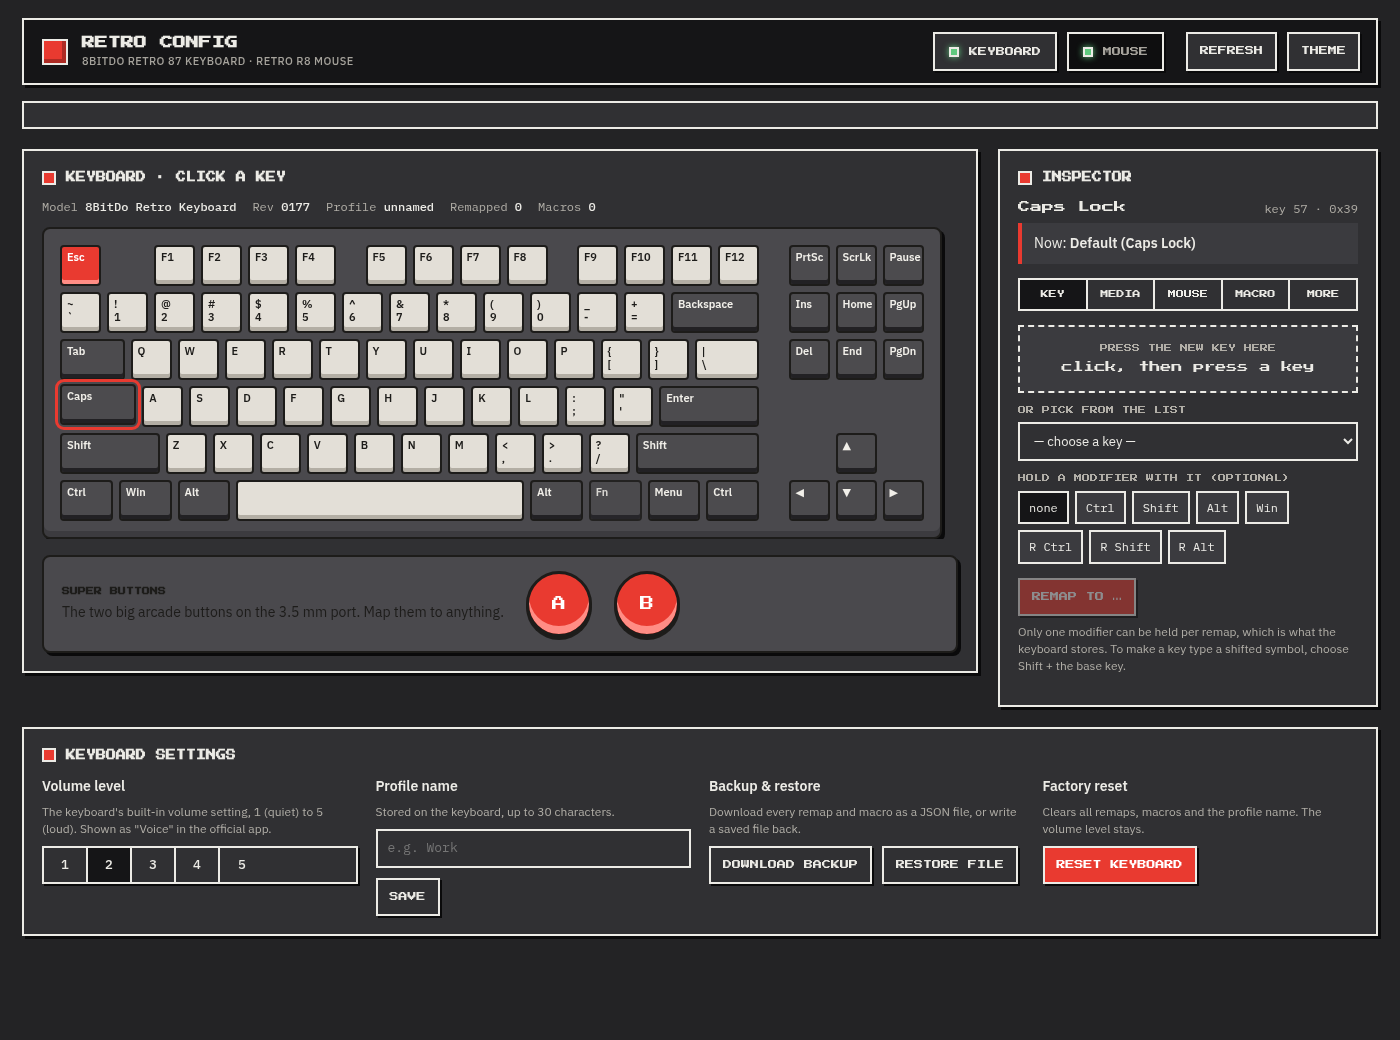
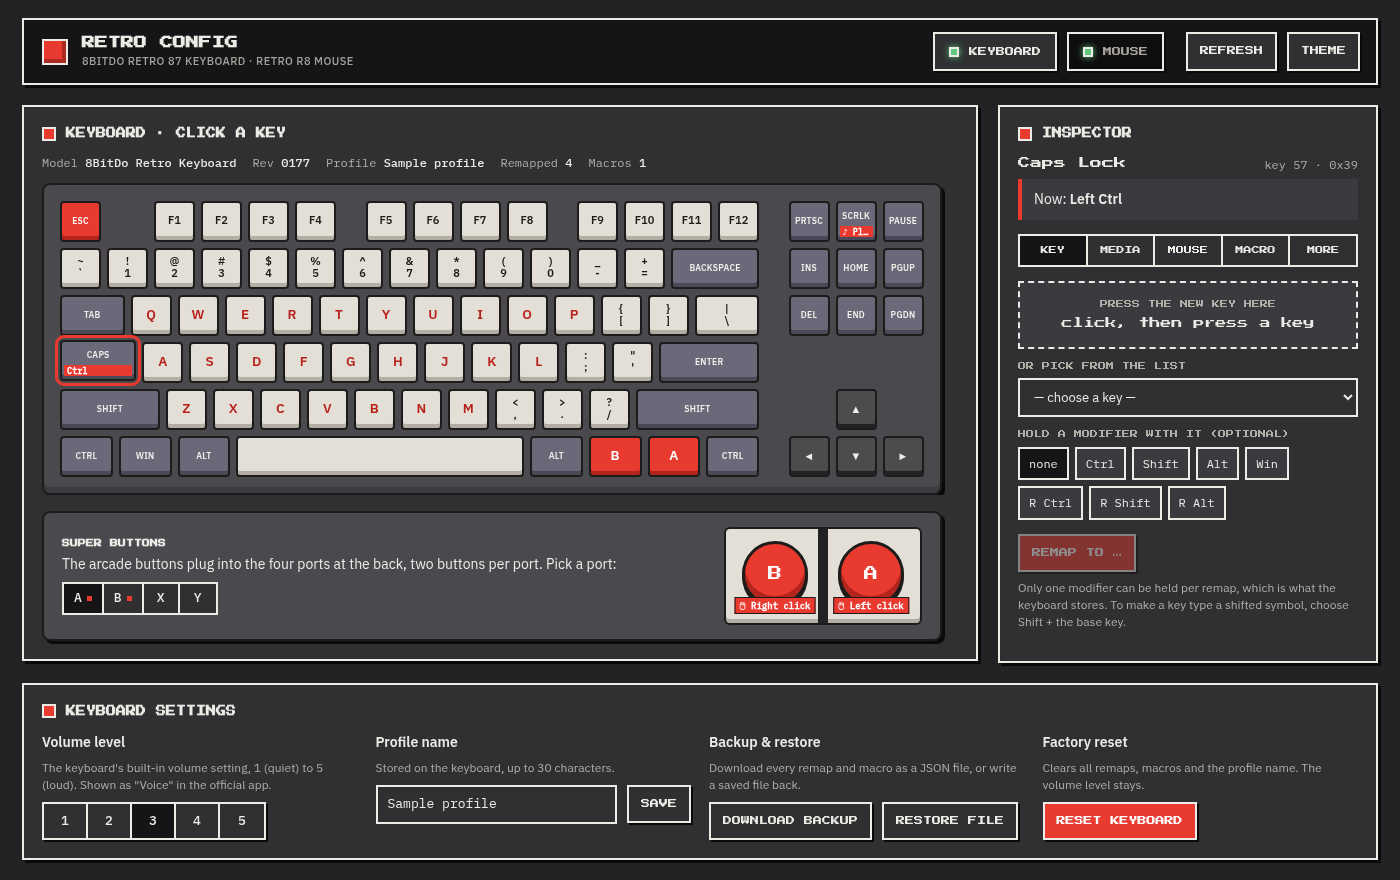
Prepare for publication
- Add the MIT LICENSE that pyproject.toml already declared; package
  metadata (authors, URLs, classifiers) and flake meta (homepage, license).
- README: a Limitations section (receivers untested, no firmware updates,
  ...), a clone URL for the pip install, related projects, disclaimer and
  license.
- Fresh screenshots of the current UI from the demo data.

diff --git a/README.md b/README.md
@@ -13,7 +13,7 @@ There is a command line (`8bitdo-cfg ...`) and a local web UI (`8bitdo-cfg ui`).
 
 ## What it can do
 
-Keyboard (USB `2dc8:5200`, also `5201` via the 2.4 GHz receiver):
+Keyboard (USB `2dc8:5200`):
 
 - read the full configuration (profile name, volume level, remaps, macros)
 - remap any key to another key (with one modifier), to `fn`, to a media key
@@ -38,8 +38,17 @@ Mouse (USB `2dc8:5205`):
   there is no "while held" mode (the `fire` function is a single click)
 - profile name, factory reset, JSON dump / apply
 
-Firmware updates are **not** implemented (the official app uses separate
-DFU tools for that).
+## Limitations
+
+- Tested over the USB cable only. The keyboard's 2.4 GHz receiver (`5201`) is
+  accepted but untested; the mouse's 2.4 GHz adapter (`5206`) is not supported.
+- Firmware updates are **not** implemented (the official app uses separate
+  DFU tools for that).
+- The keyboard's firmware version is not readable over HID; the USB `bcdDevice`
+  is shown instead.
+- The keyboard's volume level (the app's "Voice") is stored and read back, but
+  its physical effect has not been characterised.
+- Mouse macros cannot repeat while a button is held (see above).
 
 ## Install
 
@@ -63,6 +72,7 @@ Or just run it: `nix run github:ThatCrispyToast/8bitdo_linux -- list`.
 ### Anywhere else
 
 ```
+git clone https://github.com/ThatCrispyToast/8bitdo_linux && cd 8bitdo_linux
 pip install .            # gives you the 8bitdo-cfg command
 sudo cp udev/70-8bitdo.rules /etc/udev/rules.d/ && sudo udevadm control --reload && sudo udevadm trigger
 ```
@@ -173,5 +183,23 @@ python3 -m unittest discover -s tests
 nix build              # builds the package and runs the tests
 ```
 
-`resources/` holds the Windows software the protocol was derived from
-(ignored by git).
+To re-derive or extend the protocol, put the official Windows software zip in
+`resources/` (ignored by git) and follow `docs/REVERSE_ENGINEERING.md`.
+
+## Related projects
+
+- [8bitdo-kbd-mapper](https://github.com/goncalor/8bitdo-kbd-mapper) (GPL-3.0):
+  key remapping and profiles for the Retro Mechanical Keyboard over libusb.
+
+## Disclaimer
+
+This project is not affiliated with or endorsed by 8BitDo. Product names are
+trademarks of their owners. The protocol was worked out from the official
+Windows software for interoperability; this repository contains none of 8BitDo's
+code. Writes take effect on the device immediately. The tool has been used on
+the author's own hardware, but it comes with no warranty.
+
+## License
+
+MIT, see `LICENSE`. The bundled fonts (Press Start 2P, IBM Plex) are under the
+SIL Open Font License, see `eightbitdo/ui/fonts/LICENSE.txt`.

diff --git a/docs/REVERSE_ENGINEERING.md b/docs/REVERSE_ENGINEERING.md
@@ -2,8 +2,9 @@
 
 Everything in `docs/PROTOCOL.md` came from 8BitDo Ultimate Software V2 for Windows,
 v1.35 (`resources/8BitDo_Ultimate_Software_V2_Windows_V1.35.zip`), and was then
-confirmed on real hardware. The decompiled sources are deliberately not kept in the
-repository; this page lets a future session regenerate them in about 15 minutes.
+confirmed on real hardware. The decompiled sources are 8BitDo's code, so they are
+not in the repository and must not be committed; this page regenerates them in
+about 15 minutes.
 Scripts live in `tools/reverse/`.
 
 ## 1. Unpack the app
@@ -82,7 +83,7 @@ receiver's `0xFF0B`/`0x0104` collection is selected.
 ## 4. Verify on hardware
 
 Every command was exercised with a reversible round-trip (write, read back, restore)
-using scratch targets that cannot bother the user: the keyboard's `scroll_lock` key and
+using scratch targets that do not disturb normal use: the keyboard's `scroll_lock` key and
 a benign remap of a mouse side button. Findings that only hardware revealed: the mouse
 only commits a profile name when both 10-byte chunks are written; the keyboard stores a
 macro's repeat interval as a trailing delay record that `count` includes; and the mouse
